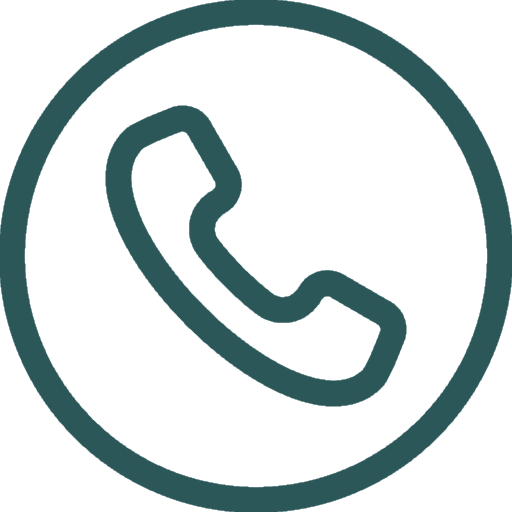
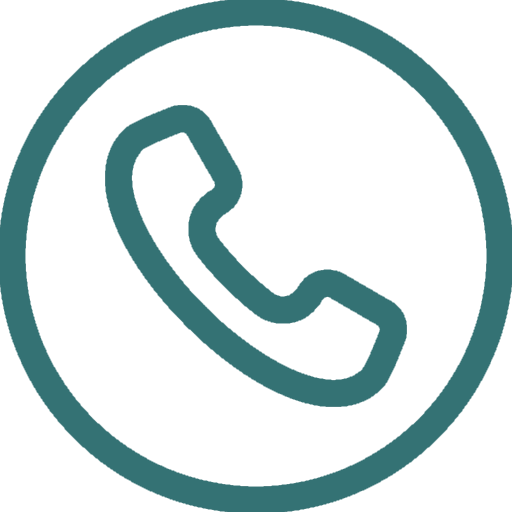
add softskills + pic home + miro hard + new main green

Changed region(s): [[0.0, 0.0, 1.0, 1.0], [0.1875, 0.1875, 0.8125, 0.8125]]

diff --git a/src/components/a_propos/Hardskills.tsx b/src/components/a_propos/Hardskills.tsx
@@ -38,6 +38,7 @@ import gitlab from '../../assets/a_propos/compétences/gitlab.webp'
 
 import figma from '../../assets/a_propos/compétences/figma.webp'
 import trello from '../../assets/a_propos/compétences/trello.png'
+import miro from '../../assets/a_propos/compétences/miro.png'
 
 
 const Hardskills = () => {
@@ -50,10 +51,9 @@ const Hardskills = () => {
             </div>
             <div className="tab-zone">
                 <div className='tab-hardskills'>
-                    <div className="tab">
                         <div className='tab-line'>
                             <div className='category-box'>
-                                <p className='txt-hardskills'>Langage de programmation</p>
+                                <p className='txt-hardsoft'>Langage de programmation</p>
                             </div>
                             <div className='logo-list'>
                                 <a href="https://www.python.org">
@@ -87,7 +87,7 @@ const Hardskills = () => {
 
                         <div className='tab-line'>
                             <div className='category-box'>
-                                <p className='txt-hardskills'>Frameworks et Bibliothèques</p>
+                                <p className='txt-hardsoft'>Frameworks et Bibliothèques</p>
                             </div>
                             <div className='logo-list'>
                                 <a href="https://fr.react.dev">
@@ -121,7 +121,7 @@ const Hardskills = () => {
 
                         <div className='tab-line'>
                             <div className='category-box'>
-                                <p className='txt-hardskills'>Bases de Données</p>
+                                <p className='txt-hardsoft'>Bases de Données</p>
                             </div>
                             <div className='logo-list'>
                                 <a href="https://sql.sh">
@@ -146,7 +146,7 @@ const Hardskills = () => {
 
                         <div className='tab-line'>
                             <div className='category-box'>
-                                <p className='txt-hardskills'>Technologies Front-End</p>
+                                <p className='txt-hardsoft'>Technologies Front-End</p>
                             </div>
                             <div className='logo-list'>
                                 <a href="https://developer.mozilla.org/fr/docs/Web/HTML">
@@ -165,7 +165,7 @@ const Hardskills = () => {
 
                         <div className='tab-line'>
                             <div className='category-box'>
-                                <p className='txt-hardskills'>Outils et Plateformes DevOps</p>
+                                <p className='txt-hardsoft'>Outils et Plateformes DevOps</p>
                             </div>
                             <div className='logo-list'>
                                 <a href="https://www.docker.com">
@@ -181,7 +181,7 @@ const Hardskills = () => {
 
                         <div className='tab-line'>
                             <div className='category-box'>
-                                <p className='txt-hardskills'>Outils de Gestion de Version</p>
+                                <p className='txt-hardsoft'>Outils de Gestion de Version</p>
                             </div>
                             <div className='logo-list'>
                                 <a href="https://git-scm.com">
@@ -200,7 +200,7 @@ const Hardskills = () => {
 
                         <div className='tab-line'>
                             <div className='category-box'>
-                                <p className='txt-hardskills'>Outils de Conception et Gestion de Projets</p>
+                                <p className='txt-hardsoft'>Outils de Conception et Gestion de Projets</p>
                             </div>
                             <div className='logo-list'>
                                 <a href="https://www.figma.com/fr-fr/">
@@ -209,12 +209,14 @@ const Hardskills = () => {
                                 <a href="https://trello.com">
                                     <img src={trello} alt="trello_logo" />
                                 </a>
+                                <a href="https://miro.com/fr/">
+                                    <img src={miro} alt="miro_logo" />
+                                </a>
                             </div>
                         </div>
                     </div>
                 </div>
             </div>
-        </div>
     );
 };
 

diff --git a/src/components/a_propos/Softskills.tsx b/src/components/a_propos/Softskills.tsx
@@ -1,0 +1,46 @@
+import '../../style/components/Softskills.css';
+import '../../style/style_gen.css';
+import { FontAwesomeIcon } from '@fortawesome/react-fontawesome';
+import { faLightbulb, faClipboardCheck, faTasks, faUserClock, faSyncAlt, faUsers } from '@fortawesome/free-solid-svg-icons';
+
+const Softskills = () => {
+    return (
+        <div className="Softskills">
+            <div className="title-line softskills-title">
+                <div className="line"></div>
+                <p className="txt-title">Softskills</p>
+                <div className="line"></div>
+            </div>
+            <div className='softskills-zone'>
+                <div className='tab-softskills'>
+                    <div className='softskill-item'>
+                        <FontAwesomeIcon icon={faLightbulb} className="softskill-icon" />
+                        <p className='txt-hardsoft'>Curiosité</p>
+                    </div>
+                    <div className='softskill-item'>
+                        <FontAwesomeIcon icon={faClipboardCheck} className="softskill-icon" />
+                        <p className='txt-hardsoft'>Assiduité</p>
+                    </div>
+                    <div className='softskill-item'>
+                        <FontAwesomeIcon icon={faTasks} className="softskill-icon" />
+                        <p className='txt-hardsoft'>Organisation</p>
+                    </div>
+                    <div className='softskill-item'>
+                        <FontAwesomeIcon icon={faUserClock} className="softskill-icon" />
+                        <p className='txt-hardsoft'>Autonomie</p>
+                    </div>
+                    <div className='softskill-item'>
+                        <FontAwesomeIcon icon={faSyncAlt} className="softskill-icon" />
+                        <p className='txt-hardsoft'>Flexibilité et adaptabilité</p>
+                    </div>
+                    <div className='softskill-item'>
+                        <FontAwesomeIcon icon={faUsers} className="softskill-icon" />
+                        <p className='txt-hardsoft'>Travail en équipe</p>
+                    </div>
+                </div>
+            </div>
+        </div>
+    );
+};
+
+export default Softskills;

diff --git a/src/components/home/Presentation.tsx b/src/components/home/Presentation.tsx
@@ -1,6 +1,6 @@
 import '../../style/components/Presentation.css';
 import '../../style/style_gen.css';
-import perso from '../../assets/home/pixelcut-export.png';
+import perso from '../../assets/home/portfolioP.svg';
 
 const A_propos = () => {
   return (
@@ -18,7 +18,7 @@ const A_propos = () => {
 					<div className="line"></div>
 				</div>
 				<div className="propos-desc">
-					<p className="txt">Je suis Manon Arcas, passionnée de développement informatique et de systèmes embarqués, et actuellement étudiante dans ces domaines captivants. Ma intérêt  pour les nouvelles technologies m'a conduite à choisir une carrière que je souhaite développer et enrichir pleinement.</p>
+					<p className="txt">Je suis Manon Arcas, passionnée de développement informatique et de systèmes embarqués, et actuellement étudiante dans ces domaines captivants. Mon intérêt pour les nouvelles technologies m'a conduite à choisir une carrière que je souhaite développer et enrichir pleinement.</p>
 					<p className="txt">Tout au long de mon parcours, j'ai eu l'opportunité de travailler sur plusieurs projets passionnants. Ces expériences m'ont permis de combiner mes compétences en programmation avec la conception mécanique et électronique, notamment pour des projets orientés vers les systèmes embarqués. Elles ont enrichi mes connaissances et renforcé ma détermination à poursuivre dans ces domaines dynamiques et innovants.</p>
 					<p className="txt">Ce site portfolio est une vitrine de mon parcours et de mes réalisations jusqu'à présent. Je vous invite à explorer mes projets et expériences, et à découvrir comment je pourrais contribuer à des projets innovantes.</p>
 					<p className="txt">Merci de votre visite ! N'hésitez pas à me contacter pour toute opportunité de collaboration ou pour en savoir plus sur mon parcours professionnel.</p>

diff --git a/src/style/components/Softskills.css b/src/style/components/Softskills.css
@@ -1,0 +1,46 @@
+.Softskills {
+    width: 100vw;
+    display: flex;
+    flex-direction: column;
+    align-items: center;
+    justify-content: center;
+    background-color: var(--secclear);
+}
+
+.softskills-title {
+    margin-top: 7vh;
+    flex-shrink: 0;
+    font-size: 2em;
+}
+
+.softskills-zone {
+    width: 100%;
+    display: flex;
+    justify-content: center;
+    align-items: center;
+    margin-bottom: 7vh;
+}
+
+.tab-softskills {
+    width: 60%;
+    display: grid;
+    grid-template-columns: repeat(auto-fit, minmax(150px, 1fr));
+    gap: 20px;
+    background-color: rgba(255, 255, 255, 0.05);
+    border-radius: 20px;
+    padding: 20px;
+}
+
+.softskill-item {
+    display: flex;
+    flex-direction: column;
+    justify-content: center;
+    align-items: center;
+    text-align: center;
+}
+
+.softskill-icon {
+    font-size: 2em;
+    color: var(--main-green);
+    margin-bottom: 10px;
+}

diff --git a/src/style/style_gen.css b/src/style/style_gen.css
@@ -1,11 +1,13 @@
 :root {
     --title : #F0F0F0;
     --txt : #CECECE;
-    --main-green : #2c5758;
-    --secdarker : #242424;
+    --main-green2 : #2c5758;
+    --main-green : #347274;
+
+    --secdarker : #272727;
     --secmedium : #2c2c2c;
-    --secmedcle : #343434;
-    --secclear : #373737;
+    --secmedcle : #303030;
+    --secclear : #343434;
     --footer : #393939;
     --gradiant-black : linear-gradient(66deg, #1E1E1E 13.45%, #373737 78.23%);
     --gradiant-green : linear-gradient(93deg, #2c5758 0.03%, #3c8e90 100.03%);
@@ -116,7 +118,7 @@ body {
     font-weight: bold;
 }
 
-.txt-hardskills {
+.txt-hardsoft {
     font-size: 1rem;
     color: var(--txt);
     font-family: "Inter", sans-serif;

diff --git a/src/components/home/Blog.tsx b/src/components/home/Blog.tsx
@@ -5,13 +5,13 @@ import elec from '../../assets/home/pcb_green.png';
 import meca from '../../assets/home/gear_green.png';
 
 
-const Competences = () => {
+const Blog = () => {
 
   return (
     <div className="sec-3" id="2">
             <div className="title-line competence">
                 <div className="line"></div>
-                <p className="txt-title">Compétences logiciel</p>
+                <p className="txt-title">Blog</p>
                 <div className="line"></div>
             </div>
             <div className="card-zone">
@@ -37,4 +37,4 @@ const Competences = () => {
         </div>
   )
 }
-export default Competences
+export default Blog

diff --git a/src/Pages/A_Propos.tsx b/src/Pages/A_Propos.tsx
@@ -2,6 +2,7 @@ import Banniere from '../components/a_propos/Banniere_a_propos'
 import Presentation from '../components/a_propos/A_propos'
 import Timeline from '../components/a_propos/Timeline'
 import Hardskills from '../components/a_propos/Hardskills'
+import Softskills from '../components/a_propos/Softskills'
 
 const A_propos = () => {
   return (
@@ -10,6 +11,7 @@ const A_propos = () => {
     <Presentation />
     <Timeline />
     <Hardskills />
+    <Softskills />
     </div>
   )
 }

diff --git a/src/components/a_propos/data/events.ts b/src/components/a_propos/data/events.ts
@@ -29,7 +29,7 @@ export const events = [
   },
   {
     title: "2024",
-    cardTitle: "Maîtrise de la qualité en projet Web - 783 points",
+    cardTitle: "Certification - Maîtrise de la qualité en projet Web (783 points)",
     cardSubtitle:
     "Opquast",
     cardDetailedText: ["- Gestion de projet informatique", "- Modifier, Intégrer les règles et le vocabulaire assurance qualité web dans sa pratique professionnel"],

diff --git a/src/style/components/Hardskills.css b/src/style/components/Hardskills.css
@@ -32,16 +32,6 @@
     overflow: hidden;
 }
 
-.tab {
-    width: 100%;
-    height: 100%;
-    display: flex;
-    flex-direction: column;
-    justify-content: center;
-    align-items: center;
-    justify-content: space-around;
-}
-
 .tab-line {
     width: 100%;
     flex: 1;
@@ -70,7 +60,7 @@
 
 .logo-list img {
     width: auto;
-    height: 4em;
+    height: 3.5em;
 }
 
 .sep-tab-hardskills {

diff --git a/src/Pages/Home.tsx b/src/Pages/Home.tsx
@@ -1,6 +1,6 @@
 import Accueil from '../components/home/Accueil';
 import A_propos from '../components/home/Presentation';
-import Competences from '../components/home/Competences'
+import Competences from '../components/home/Blog'
 
 const Home = () => {
   return (

diff --git a/src/style/components/ExperienceCard.css b/src/style/components/ExperienceCard.css
@@ -2,7 +2,7 @@
     display: flex;
     flex-direction: row;
     border-radius: 15px;
-    background-color: var(--desktopComp);
+    background-color: var(--secclear);
     width: 75vw;
     height: 40vh;
     overflow: hidden;

diff --git a/src/style/components/ExperienceList.css b/src/style/components/ExperienceList.css
@@ -6,6 +6,6 @@
     padding-top: 15vh;
     padding-bottom: 15vh;
     width: 100vw;
-    background: var(--gradiant-black);
+    background: var(--secmedcle);
     gap: 5vh;
 }
